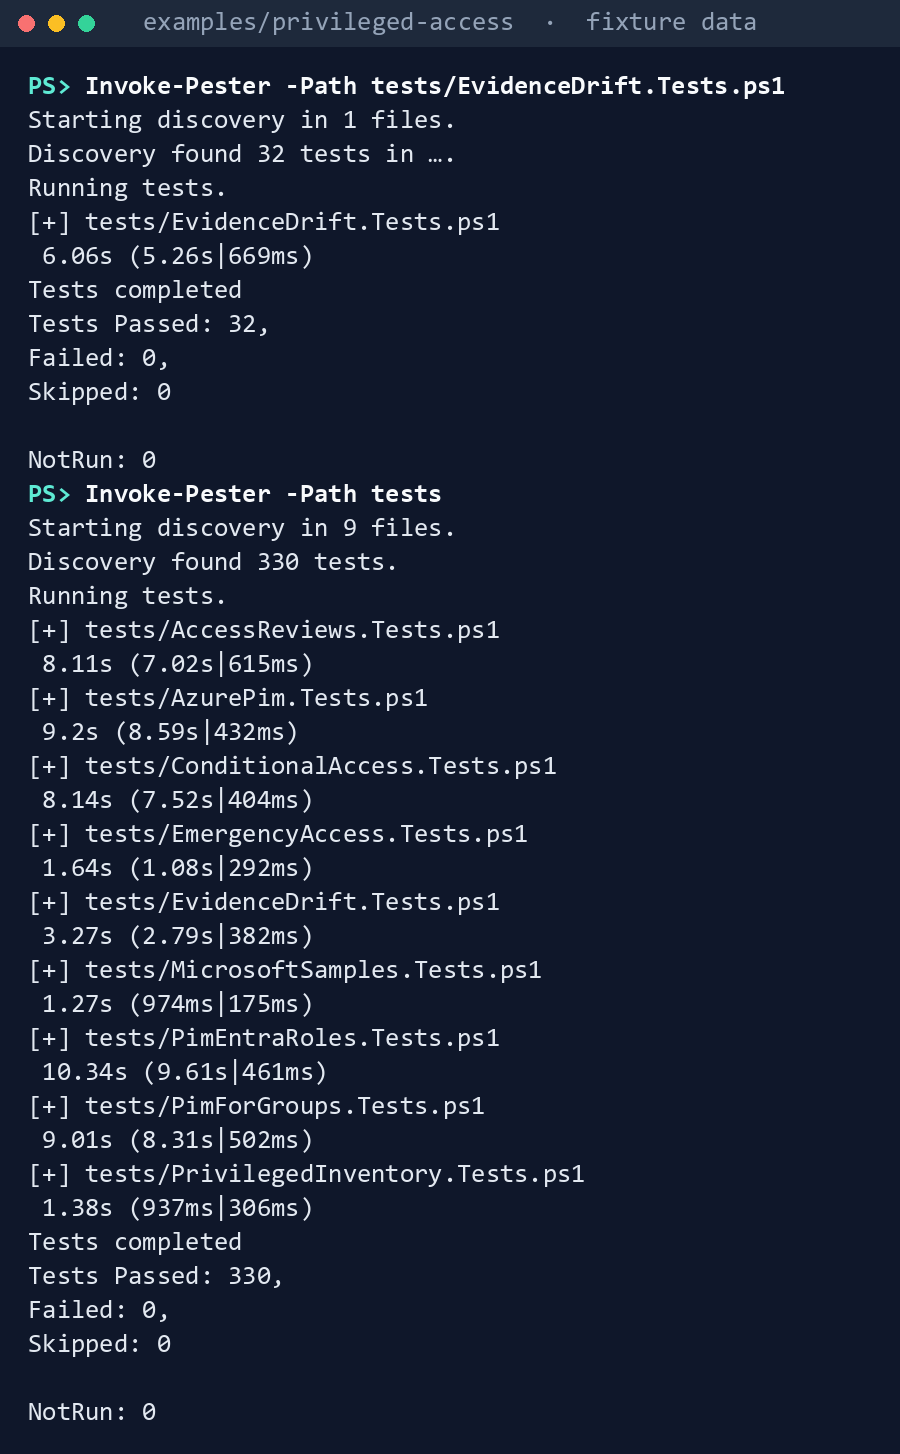
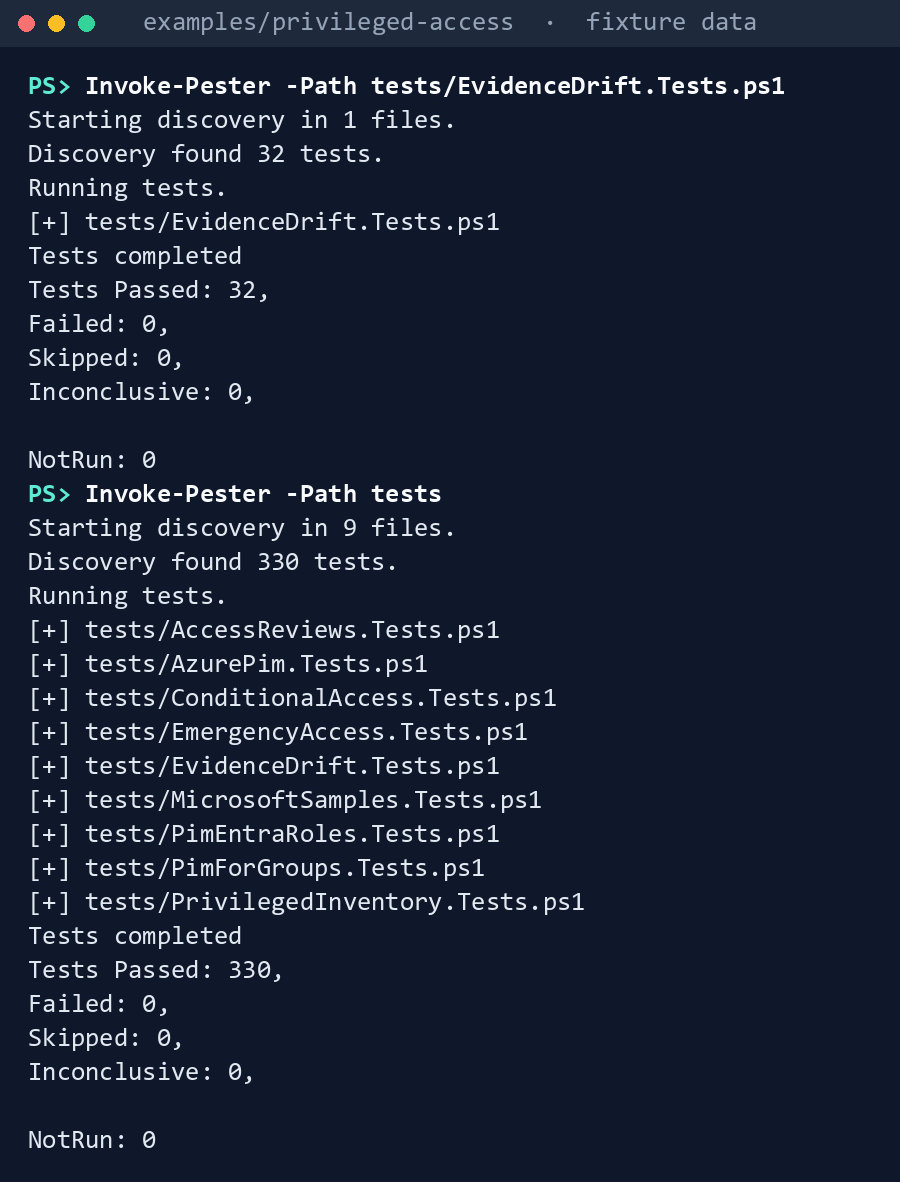
Lab captures: errors on one line, Pester timings dropped, captured with Pester 5.9 as CI runs
PowerShell wrapped a thrown error to the console width, which differs between this machine and the CI
runner; the capture now shows it on one line. Pester's per-file timing lines and "in 994ms" are dropped
like the other timings. CI installs the newest Pester (5.9.0), which adds an Inconclusive count.

Changed region(s): [[0.0311, 0.0, 0.8711, 0.9746], [0.4044, 0.1827, 0.56, 0.2132]]

diff --git a/scripts/kit_captures.py b/scripts/kit_captures.py
@@ -151,11 +151,12 @@ def clean(out: str, cwd: Path, root: Path) -> str:
     if os.name == "nt":
         out = out.replace("\\", "/")
     # pytest, node and Pester print their own timings; keep the counts, drop the times.
-    out = re.sub(r" in \d+\.\d+s\b", "", out)
+    out = re.sub(r" in \d+(?:\.\d+)?m?s\b", "", out)
     out = re.sub(r"^(. duration_ms) [\d.]+$", r"\1 …", out, flags=re.M)
     out = re.sub(r" \(\d+(?:\.\d+)?ms\)$", "", out, flags=re.M)
-    out = re.sub(r"^((?:Tests completed|Discovery found [^\n]*?) in) [\d.]+m?s", r"\1 …", out, flags=re.M)
+    # Pester puts a file's timing on the file's line, or on a line of its own.
     out = re.sub(r"^(\[[+-]\] [^\n]*?) [\d.]+m?s \([\d.]+m?s\|[\d.]+m?s\)$", r"\1", out, flags=re.M)
+    out = re.sub(r"^ *[\d.]+m?s \([\d.]+m?s\|[\d.]+m?s\)\n", "", out, flags=re.M)
     return "\n".join(l.rstrip() for l in out.split("\n")).strip("\n")
 
 
@@ -197,7 +198,13 @@ foreach ($__b in (Get-Content -Raw -LiteralPath $args[0] | ConvertFrom-Json)) {
     $__shown++
     $global:LASTEXITCODE = 0
     try { . ([scriptblock]::Create($__st.Extent.Text)) *>&1 | Out-String -Width 200 -Stream }
-    catch { $_ | Out-String -Width 200 -Stream }
+    # An error is one line, "Name: message", as a wide terminal shows it; otherwise PowerShell
+    # wraps it to the console width, which differs between machines.
+    catch {
+      $__r = @($_ | Out-String -Width 200 -Stream | Where-Object { $_ })
+      $__p = if ($__r.Count -and $__r[0] -match '^([^:]+): ') { $Matches[1] } else { 'Exception' }
+      "${__p}: $(if ($_.ErrorDetails.Message) { $_.ErrorDetails.Message } else { $_.Exception.Message })"
+    }
     if ($global:LASTEXITCODE) { "(exit code $global:LASTEXITCODE)" }
   }
 }
